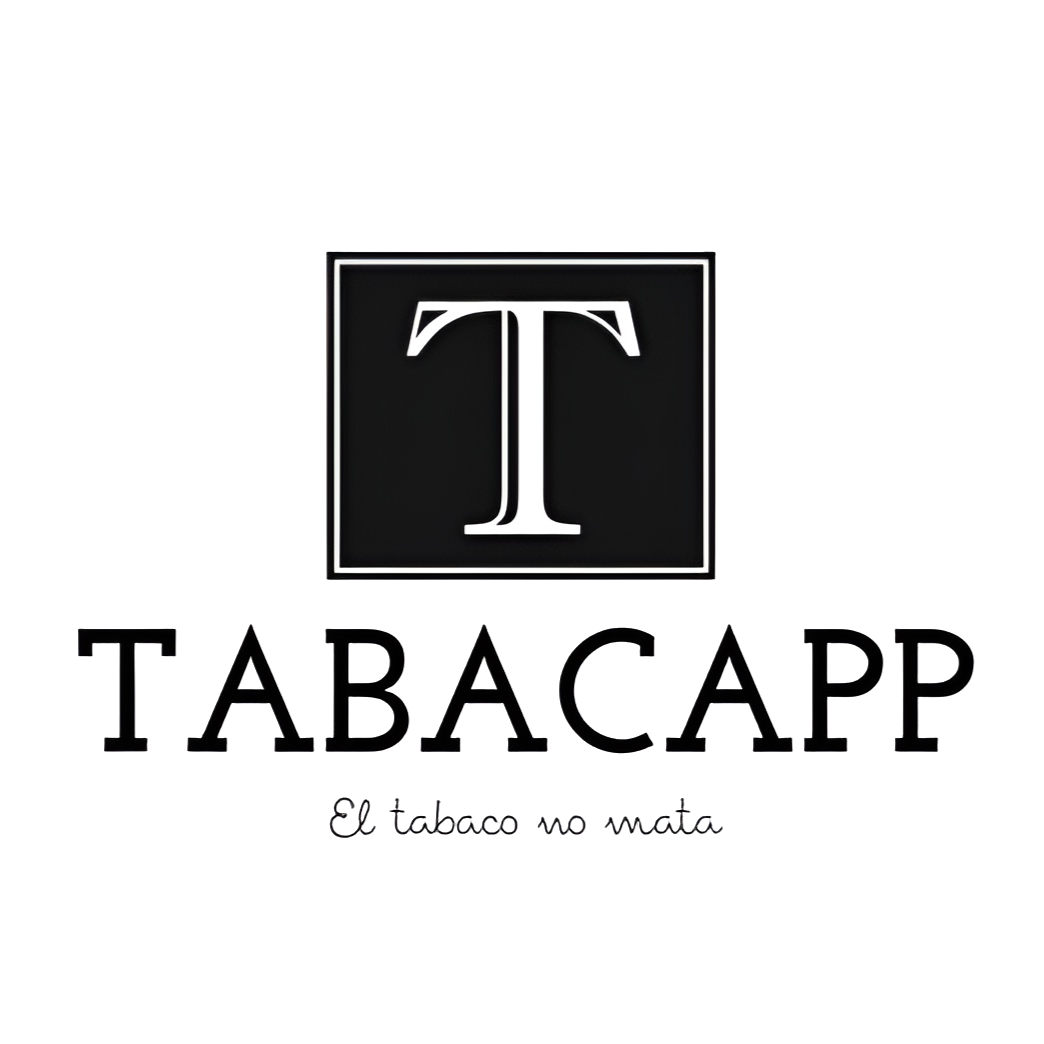
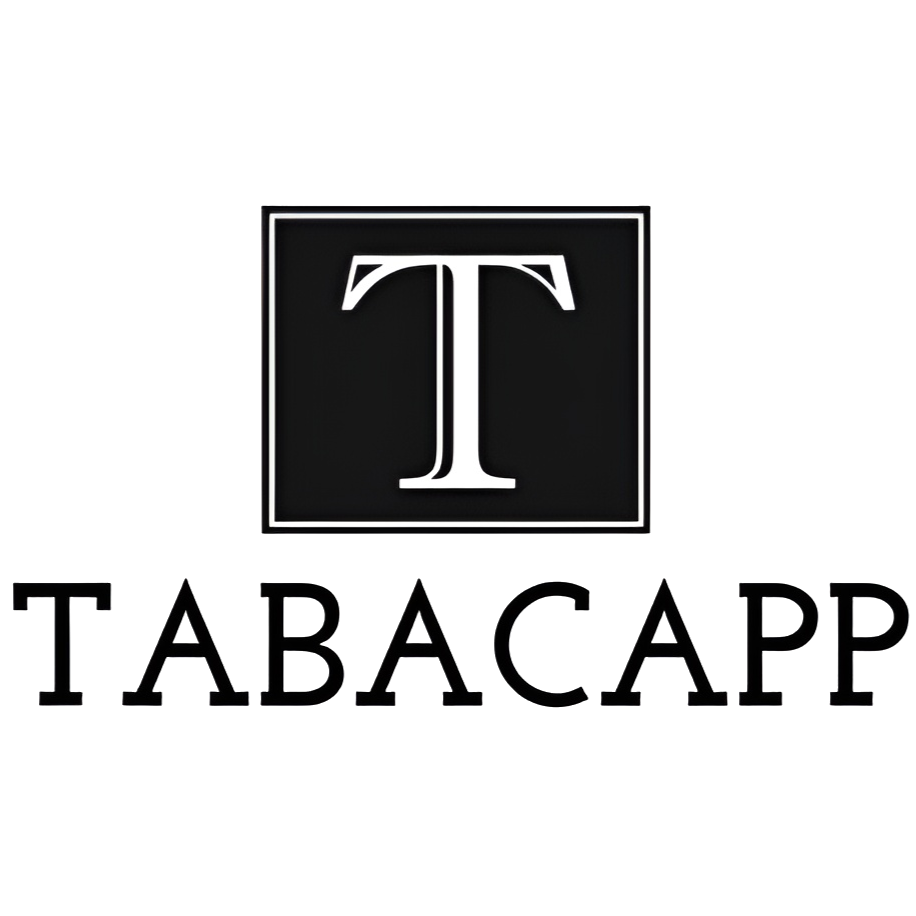
Refactor y mejorar la interfaz de usuario en AdminWindow, MenuWindow y UsuarioWindow: se renombra MenuWindow2 a MenuWindow, se estilizan botones, se ajustan tamaños y se mejora la legibilidad. Actualizar imagen de TabacApp y modificar colores en ZebraRenderer para mejor contraste.

Changed region(s): [[0.0, 0.214, 1.0, 0.8253]]

diff --git a/src/main/java/com/tabacapp/gui/AdminWindow.java b/src/main/java/com/tabacapp/gui/AdminWindow.java
@@ -15,10 +15,10 @@ public class AdminWindow extends JFrame {
     private ProductoPanel productoPanel;
     private JTextArea textArea;
     private Connection conn;
-    private MenuWindow menuWindow2;
+    private MenuWindow menuWindow;
 
     public AdminWindow(MenuWindow menuWindow2, Connection conn) {
-        this.menuWindow2 = this.menuWindow2;
+        this.menuWindow = menuWindow2;
         this.productoDAO = new ProductoDAO(conn);
 
         setTitle("TabacApp - Panel Administrador");
@@ -26,15 +26,22 @@ public class AdminWindow extends JFrame {
         setDefaultCloseOperation(JFrame.EXIT_ON_CLOSE);
         setLocationRelativeTo(null);
         setLayout(new BorderLayout());
+        getContentPane().setBackground(new Color(0x4E342E)); // Marrón oscuro
 
         productoPanel = new ProductoPanel(productoDAO);
         add(productoPanel, BorderLayout.CENTER);
 
+        // Panel de botones con fondo oscuro
         JPanel panelBotones = new JPanel();
-        JButton btnAgregar = new JButton("➕ Agregar producto");
-        JButton btnEliminar = new JButton("❌ Eliminar producto");
-        JButton btnBeneficio = new JButton("💰 Calcular beneficio total");
-        JButton btnSalir = new JButton("Salir al menú");
+        panelBotones.setBackground(new Color(0x4E342E)); // Marrón oscuro
+        panelBotones.setLayout(new FlowLayout(FlowLayout.CENTER, 20, 10));
+
+        // Botones estilizados
+        JButton btnAgregar = crearBoton("➕ Agregar producto");
+        JButton btnEliminar = crearBoton("❌ Eliminar producto");
+        JButton btnBeneficio = crearBoton("💰 Calcular beneficio total");
+        btnBeneficio.setPreferredSize(new Dimension(280, 40));  // Más ancho para que no se corte
+        JButton btnSalir = crearBoton("Salir al menú");
 
         panelBotones.add(btnAgregar);
         panelBotones.add(btnEliminar);
@@ -43,10 +50,15 @@ public class AdminWindow extends JFrame {
 
         add(panelBotones, BorderLayout.NORTH);
 
+        // Área de texto con estilo
         textArea = new JTextArea(5, 20);
         textArea.setEditable(false);
+        textArea.setBackground(new Color(0x4E342E)); // Marrón oscuro
+        textArea.setForeground(new Color(0xFFF8E1)); // Beige claro
+        textArea.setFont(new Font("Monospaced", Font.PLAIN, 14));
         add(new JScrollPane(textArea), BorderLayout.SOUTH);
 
+        // Listeners
         btnAgregar.addActionListener(e -> agregarProducto());
         btnEliminar.addActionListener(e -> eliminarProducto());
         btnBeneficio.addActionListener(e -> calcularBeneficio());
@@ -58,9 +70,32 @@ public class AdminWindow extends JFrame {
         setVisible(true);
     }
 
+    // Método para estilizar botones
+    private JButton crearBoton(String texto) {
+        JButton boton = new JButton(texto);
+        boton.setFont(new Font("SansSerif", Font.BOLD, 14));
+        boton.setBackground(new Color(0x8D6E63)); // Marrón claro
+        boton.setForeground(new Color(0x000000)); // Negro
+        boton.setFocusPainted(false);
+        boton.setBorder(BorderFactory.createLineBorder(new Color(0x6D4C41), 2)); // Marrón medio
+        boton.setCursor(new Cursor(Cursor.HAND_CURSOR));
+        boton.setPreferredSize(new Dimension(180, 40));
+
+        // Efecto hover
+        boton.addMouseListener(new java.awt.event.MouseAdapter() {
+            public void mouseEntered(java.awt.event.MouseEvent evt) {
+                boton.setBackground(new Color(0xD7CCC8)); // Beige claro
+            }
+
+            public void mouseExited(java.awt.event.MouseEvent evt) {
+                boton.setBackground(new Color(0x8D6E63)); // Marrón claro
+            }
+        });
+
+        return boton;
+    }
+
     private void agregarProducto() {
-        // Aquí debes implementar un diálogo para pedir datos de nuevo producto
-        // Por ejemplo, JOptionPane.showInputDialog o un formulario personalizado
         try {
             String nombre = JOptionPane.showInputDialog(this, "Nombre del producto:");
             if (nombre == null || nombre.trim().isEmpty()) return;
@@ -84,7 +119,6 @@ public class AdminWindow extends JFrame {
             String nombreProveedor = JOptionPane.showInputDialog(this, "Proveedor (nombre):");
             if (nombreProveedor == null) nombreProveedor = "";
 
-// Crear objeto Proveedor con solo el nombre
             Proveedor proveedor = new Proveedor();
             proveedor.setNombre(nombreProveedor);
 

diff --git a/src/main/java/com/tabacapp/gui/MenuWindow.java b/src/main/java/com/tabacapp/gui/MenuWindow.java
@@ -13,24 +13,25 @@ public class MenuWindow extends JFrame {
 
         setTitle("TabacApp - Menú");
         setDefaultCloseOperation(EXIT_ON_CLOSE);
-        setSize(280, 480); // Tamaño tipo móvil
+        setSize(480, 800); // Tamaño móvil más grande
         setLocationRelativeTo(null);
         getContentPane().setBackground(new Color(0x4E342E)); // Marrón oscuro fondo
 
         JPanel panel = new JPanel();
         panel.setLayout(new BoxLayout(panel, BoxLayout.Y_AXIS));
         panel.setBackground(new Color(0x4E342E));
-        panel.setBorder(BorderFactory.createEmptyBorder(20, 20, 20, 20));
+        panel.setBorder(BorderFactory.createEmptyBorder(30, 30, 30, 30)); // más margen
 
-        // Cargar imagen (colócala en resources y ajusta esta ruta si es necesario)
-        ImageIcon icon = new ImageIcon("src/main/resources/img/TabacApp.png");  // Ruta de la imagen
+        // Cargar imagen aumentada
+        ImageIcon icon = new ImageIcon("src/main/resources/img/TabacApp.png");
         JLabel imageLabel = new JLabel();
-        imageLabel.setIcon(new ImageIcon(icon.getImage().getScaledInstance(120, 120, Image.SCALE_SMOOTH)));
+        imageLabel.setIcon(new ImageIcon(icon.getImage().getScaledInstance(160, 160, Image.SCALE_SMOOTH)));
         imageLabel.setAlignmentX(Component.CENTER_ALIGNMENT);
         panel.add(imageLabel);
 
-        panel.add(Box.createVerticalStrut(20)); // Espacio debajo de la imagen
+        panel.add(Box.createVerticalStrut(30)); // Más espacio
 
+        // Botones
         JButton btnAdmin = new JButton("🔐 Admin");
         JButton btnUsuario = new JButton("👤 Usuario");
         JButton btnSalir = new JButton("🚪 Salir");
@@ -40,13 +41,22 @@ public class MenuWindow extends JFrame {
         configurarBoton(btnSalir);
 
         panel.add(btnAdmin);
-        panel.add(Box.createVerticalStrut(15));
+        panel.add(Box.createVerticalStrut(20));
         panel.add(btnUsuario);
-        panel.add(Box.createVerticalStrut(15));
+        panel.add(Box.createVerticalStrut(20));
         panel.add(btnSalir);
+        panel.add(Box.createVerticalStrut(30));
+
+        // Eslogan más grande
+        JLabel slogan = new JLabel("El Tabaco No Mata");
+        slogan.setAlignmentX(Component.CENTER_ALIGNMENT);
+        slogan.setFont(new Font("Serif", Font.ITALIC, 18));
+        slogan.setForeground(new Color(0xFFF8E1));
+        panel.add(slogan);
 
         add(panel);
 
+        // Listeners
         btnAdmin.addActionListener(e -> {
             JPasswordField pwdField = new JPasswordField();
             int option = JOptionPane.showConfirmDialog(
@@ -84,14 +94,14 @@ public class MenuWindow extends JFrame {
     }
 
     private void configurarBoton(JButton boton) {
-        boton.setFont(new Font("SansSerif", Font.BOLD, 16));
-        boton.setBackground(new Color(0x8D6E63)); // Marrón claro
-        boton.setForeground(new Color(0x000000)); // Texto crema claro
+        boton.setFont(new Font("SansSerif", Font.BOLD, 20));
+        boton.setBackground(new Color(0x8D6E63));
+        boton.setForeground(new Color(0x000000));
         boton.setFocusPainted(false);
-        boton.setBorder(BorderFactory.createLineBorder(new Color(0x6D4C41), 2)); // Borde marrón medio
+        boton.setBorder(BorderFactory.createLineBorder(new Color(0x6D4C41), 2));
         boton.setCursor(new Cursor(Cursor.HAND_CURSOR));
         boton.setAlignmentX(Component.CENTER_ALIGNMENT);
-        boton.setMaximumSize(new Dimension(200, 40));
+        boton.setMaximumSize(new Dimension(240, 50)); // Botones más grandes
 
         boton.addMouseListener(new java.awt.event.MouseAdapter() {
             public void mouseEntered(java.awt.event.MouseEvent evt) {

diff --git a/src/main/java/com/tabacapp/gui/UsuarioWindow.java b/src/main/java/com/tabacapp/gui/UsuarioWindow.java
@@ -10,10 +10,10 @@ public class UsuarioWindow extends JFrame {
 
     private ProductoDAO productoDAO;
     private ProductoPanel productoPanel;
-    private MenuWindow menuWindow2;
+    private MenuWindow menuWindow;
 
     public UsuarioWindow(MenuWindow menuWindow2, Connection conn) {
-        this.menuWindow2 = menuWindow2;
+        this.menuWindow = menuWindow2;
         this.productoDAO = new ProductoDAO(conn);
 
         setTitle("TabacApp - Usuario");
@@ -21,16 +21,17 @@ public class UsuarioWindow extends JFrame {
         setDefaultCloseOperation(JFrame.DISPOSE_ON_CLOSE);
         setLocationRelativeTo(null);
         setLayout(new BorderLayout());
-        setDefaultCloseOperation(JFrame.EXIT_ON_CLOSE);
+        getContentPane().setBackground(new Color(0x4E342E)); // Marrón oscuro
 
         // Panel superior con botones de búsqueda
         JPanel botonesPanel = new JPanel(new FlowLayout());
+        botonesPanel.setBackground(new Color(0x4E342E)); // Marrón oscuro
 
-        JButton btnNombre = new JButton("🔍 Buscar por nombre");
-        JButton btnMarca = new JButton("🔍 Buscar por marca");
-        JButton btnProveedor = new JButton("🔍 Buscar por proveedor");
-        JButton btnPrecioMax = new JButton("🔍 Buscar por precio máximo");
-        JButton btnMostrarTodos = new JButton("🔁 Mostrar todos");
+        JButton btnNombre = crearBoton("🔍 Buscar por nombre");
+        JButton btnMarca = crearBoton("🔍 Buscar por marca");
+        JButton btnProveedor = crearBoton("🔍 Buscar por proveedor");
+        JButton btnPrecioMax = crearBoton("🔍 Buscar por precio máximo");
+        JButton btnMostrarTodos = crearBoton("🔁 Mostrar todos");
 
         botonesPanel.add(btnNombre);
         botonesPanel.add(btnMarca);
@@ -45,12 +46,15 @@ public class UsuarioWindow extends JFrame {
         add(productoPanel, BorderLayout.CENTER);
 
         // Botón volver
-        JButton btnVolver = new JButton("Volver al menú");
+        JButton btnVolver = crearBoton("Volver al menú");
         btnVolver.addActionListener(e -> {
             dispose();
             menuWindow2.setVisible(true);
         });
-        add(btnVolver, BorderLayout.SOUTH);
+        JPanel panelSur = new JPanel();
+        panelSur.setBackground(new Color(0x4E342E));
+        panelSur.add(btnVolver);
+        add(panelSur, BorderLayout.SOUTH);
 
         // Acciones de botones
         btnNombre.addActionListener(e -> {
@@ -89,5 +93,30 @@ public class UsuarioWindow extends JFrame {
         btnMostrarTodos.addActionListener(e -> productoPanel.cargarProductos());
 
         setVisible(true);
+    }
+
+    // Metodo para estilizar botones con colores iguales a AdminWindow
+    private JButton crearBoton(String texto) {
+        JButton boton = new JButton(texto);
+        boton.setFont(new Font("SansSerif", Font.BOLD, 14));
+        boton.setBackground(new Color(0x8D6E63)); // Marrón claro
+        boton.setForeground(new Color(0x000000)); // Negro
+        boton.setFocusPainted(false);
+        boton.setBorder(BorderFactory.createLineBorder(new Color(0x6D4C41), 2)); // Marrón medio
+        boton.setCursor(new Cursor(Cursor.HAND_CURSOR));
+        boton.setPreferredSize(new Dimension(180, 40));
+
+        // Efecto hover
+        boton.addMouseListener(new java.awt.event.MouseAdapter() {
+            public void mouseEntered(java.awt.event.MouseEvent evt) {
+                boton.setBackground(new Color(0xD7CCC8)); // Beige claro
+            }
+
+            public void mouseExited(java.awt.event.MouseEvent evt) {
+                boton.setBackground(new Color(0x8D6E63)); // Marrón claro
+            }
+        });
+
+        return boton;
     }
 }

diff --git a/src/main/java/com/tabacapp/gui/ProductoPanel.java b/src/main/java/com/tabacapp/gui/ProductoPanel.java
@@ -90,9 +90,9 @@ public class ProductoPanel extends JPanel {
 
     // 🔽 Clase interna para renderizado en zebra (gris / blanco)
     private static class ZebraRenderer extends DefaultTableCellRenderer {
-        private static final Color GRIS_CLARO = new Color(230, 230, 230);
+        private static final Color GRIS_CLARO = new Color(190, 190, 190);
         private static final Color BLANCO = Color.WHITE;
-        private static final Color SELECCION = new Color(184, 207, 229);
+        private static final Color SELECCION = new Color(163, 201, 239);
 
         @Override
         public Component getTableCellRendererComponent(JTable table, Object value, boolean isSelected,
